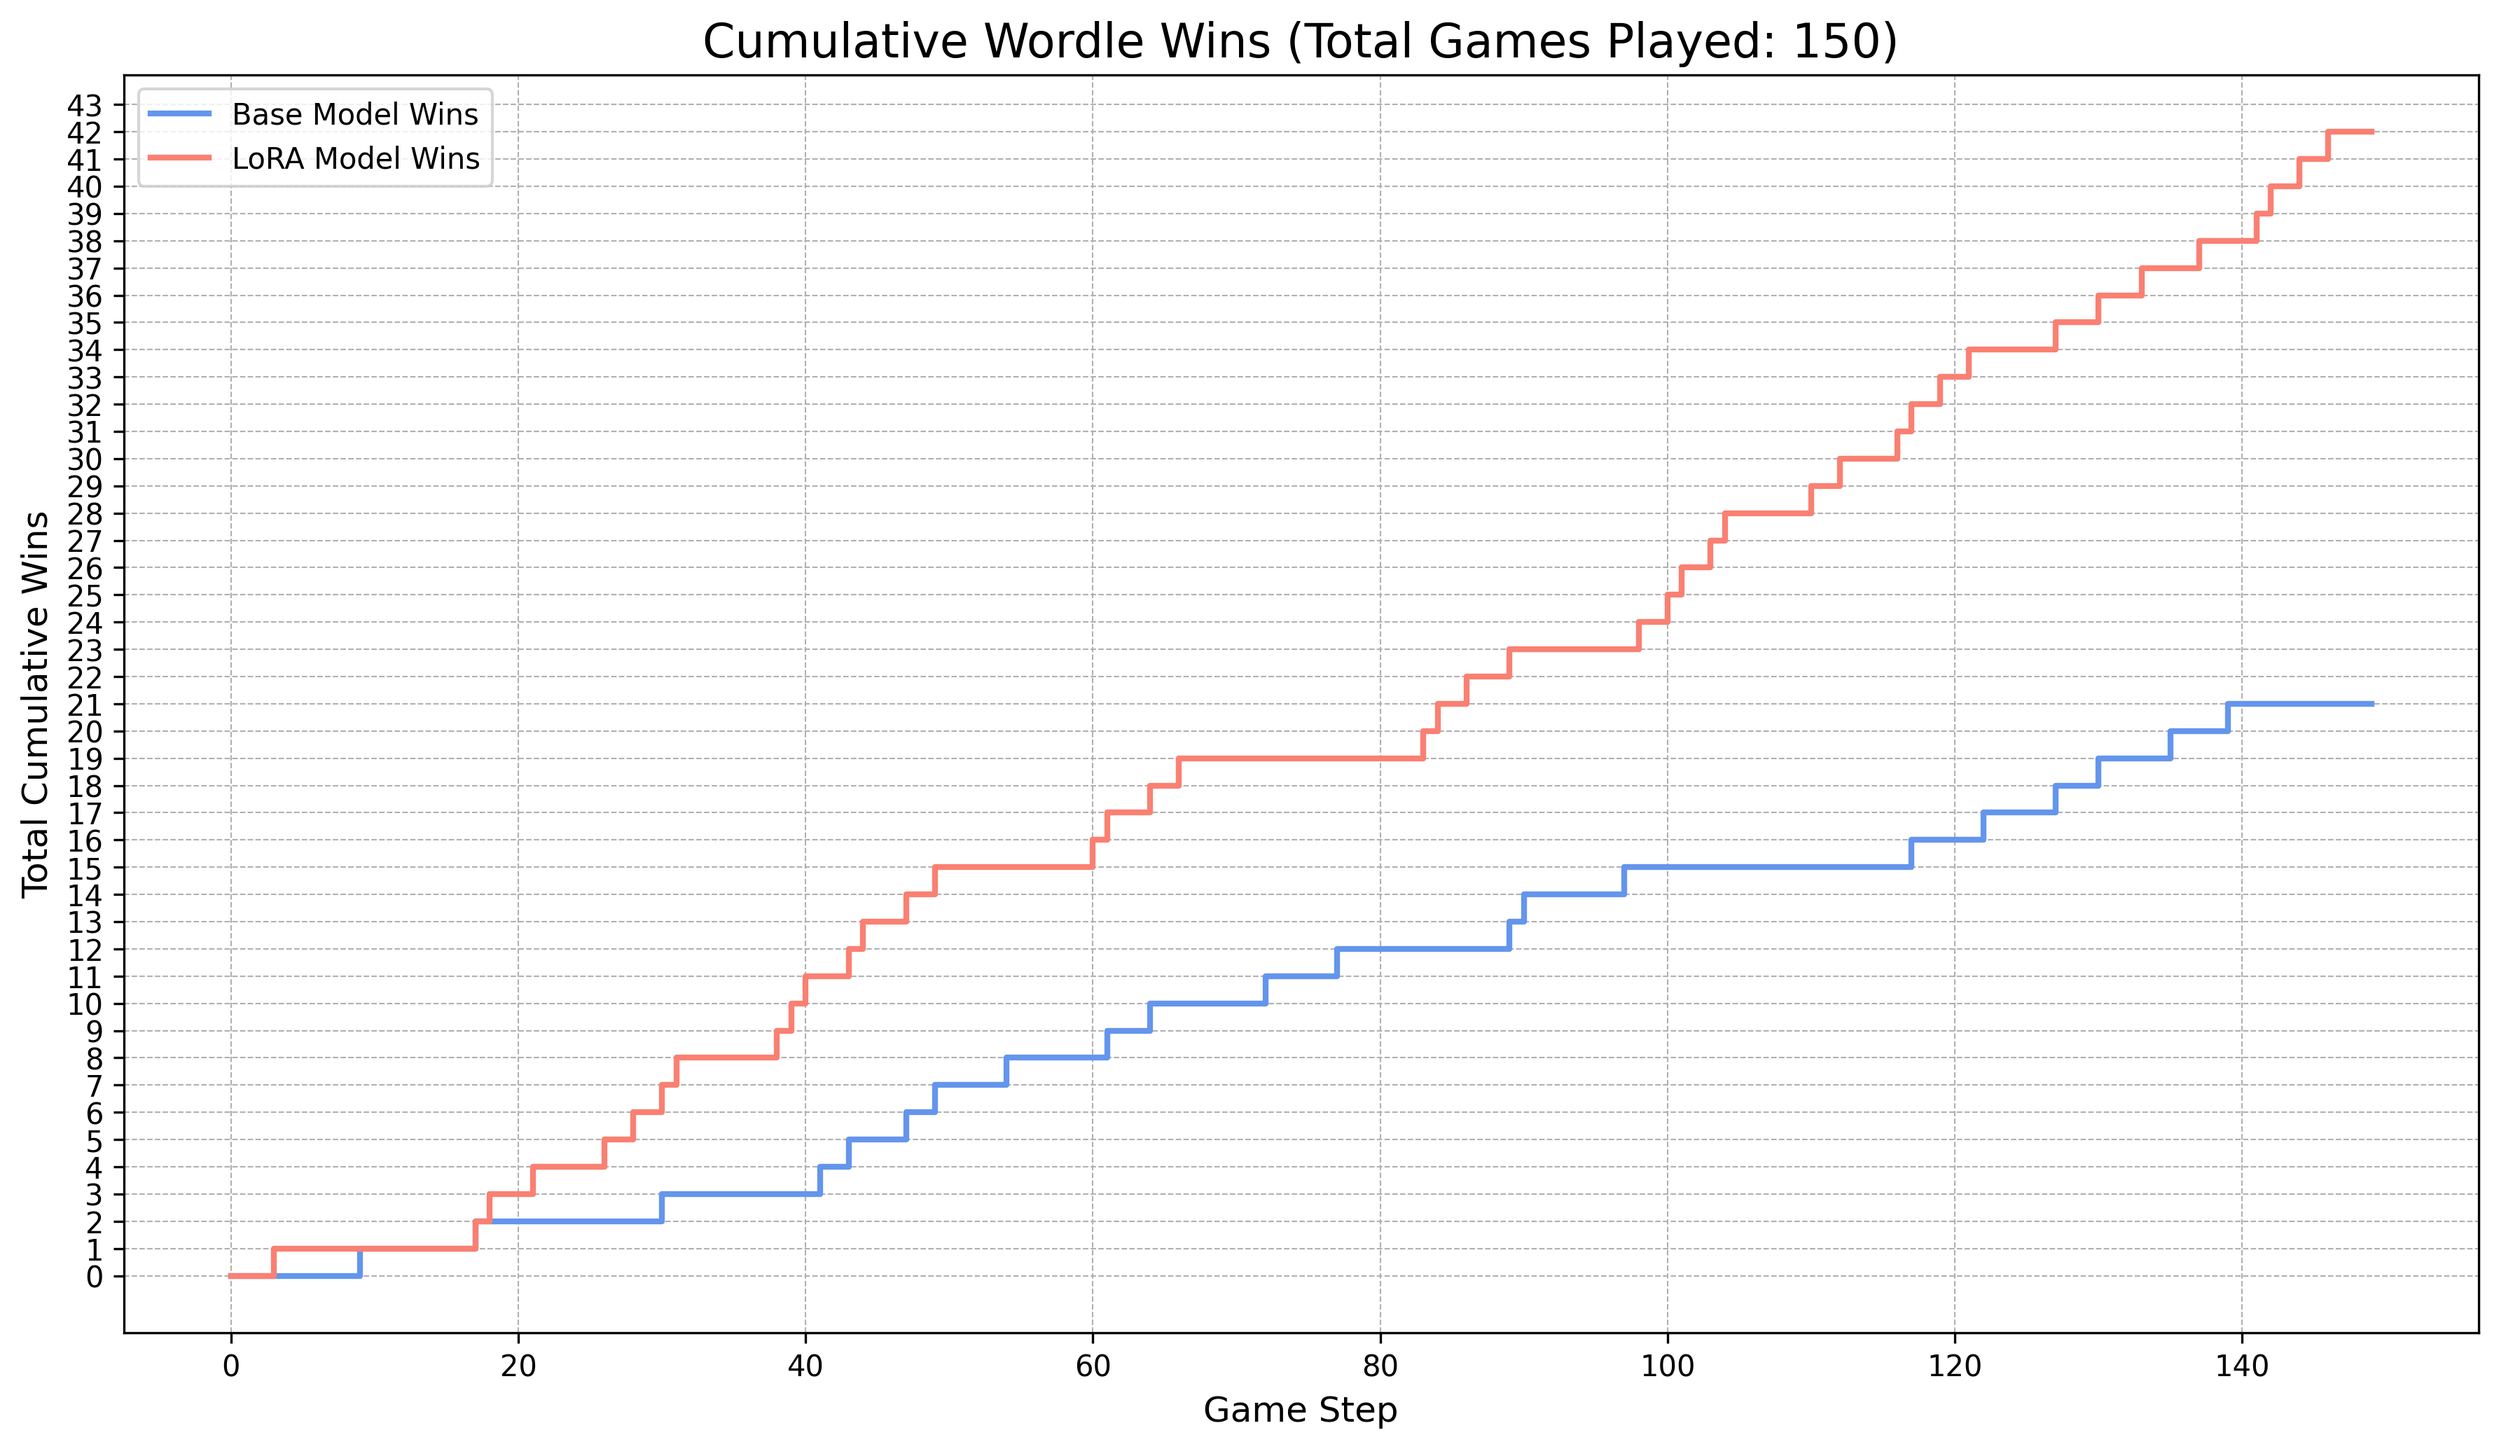
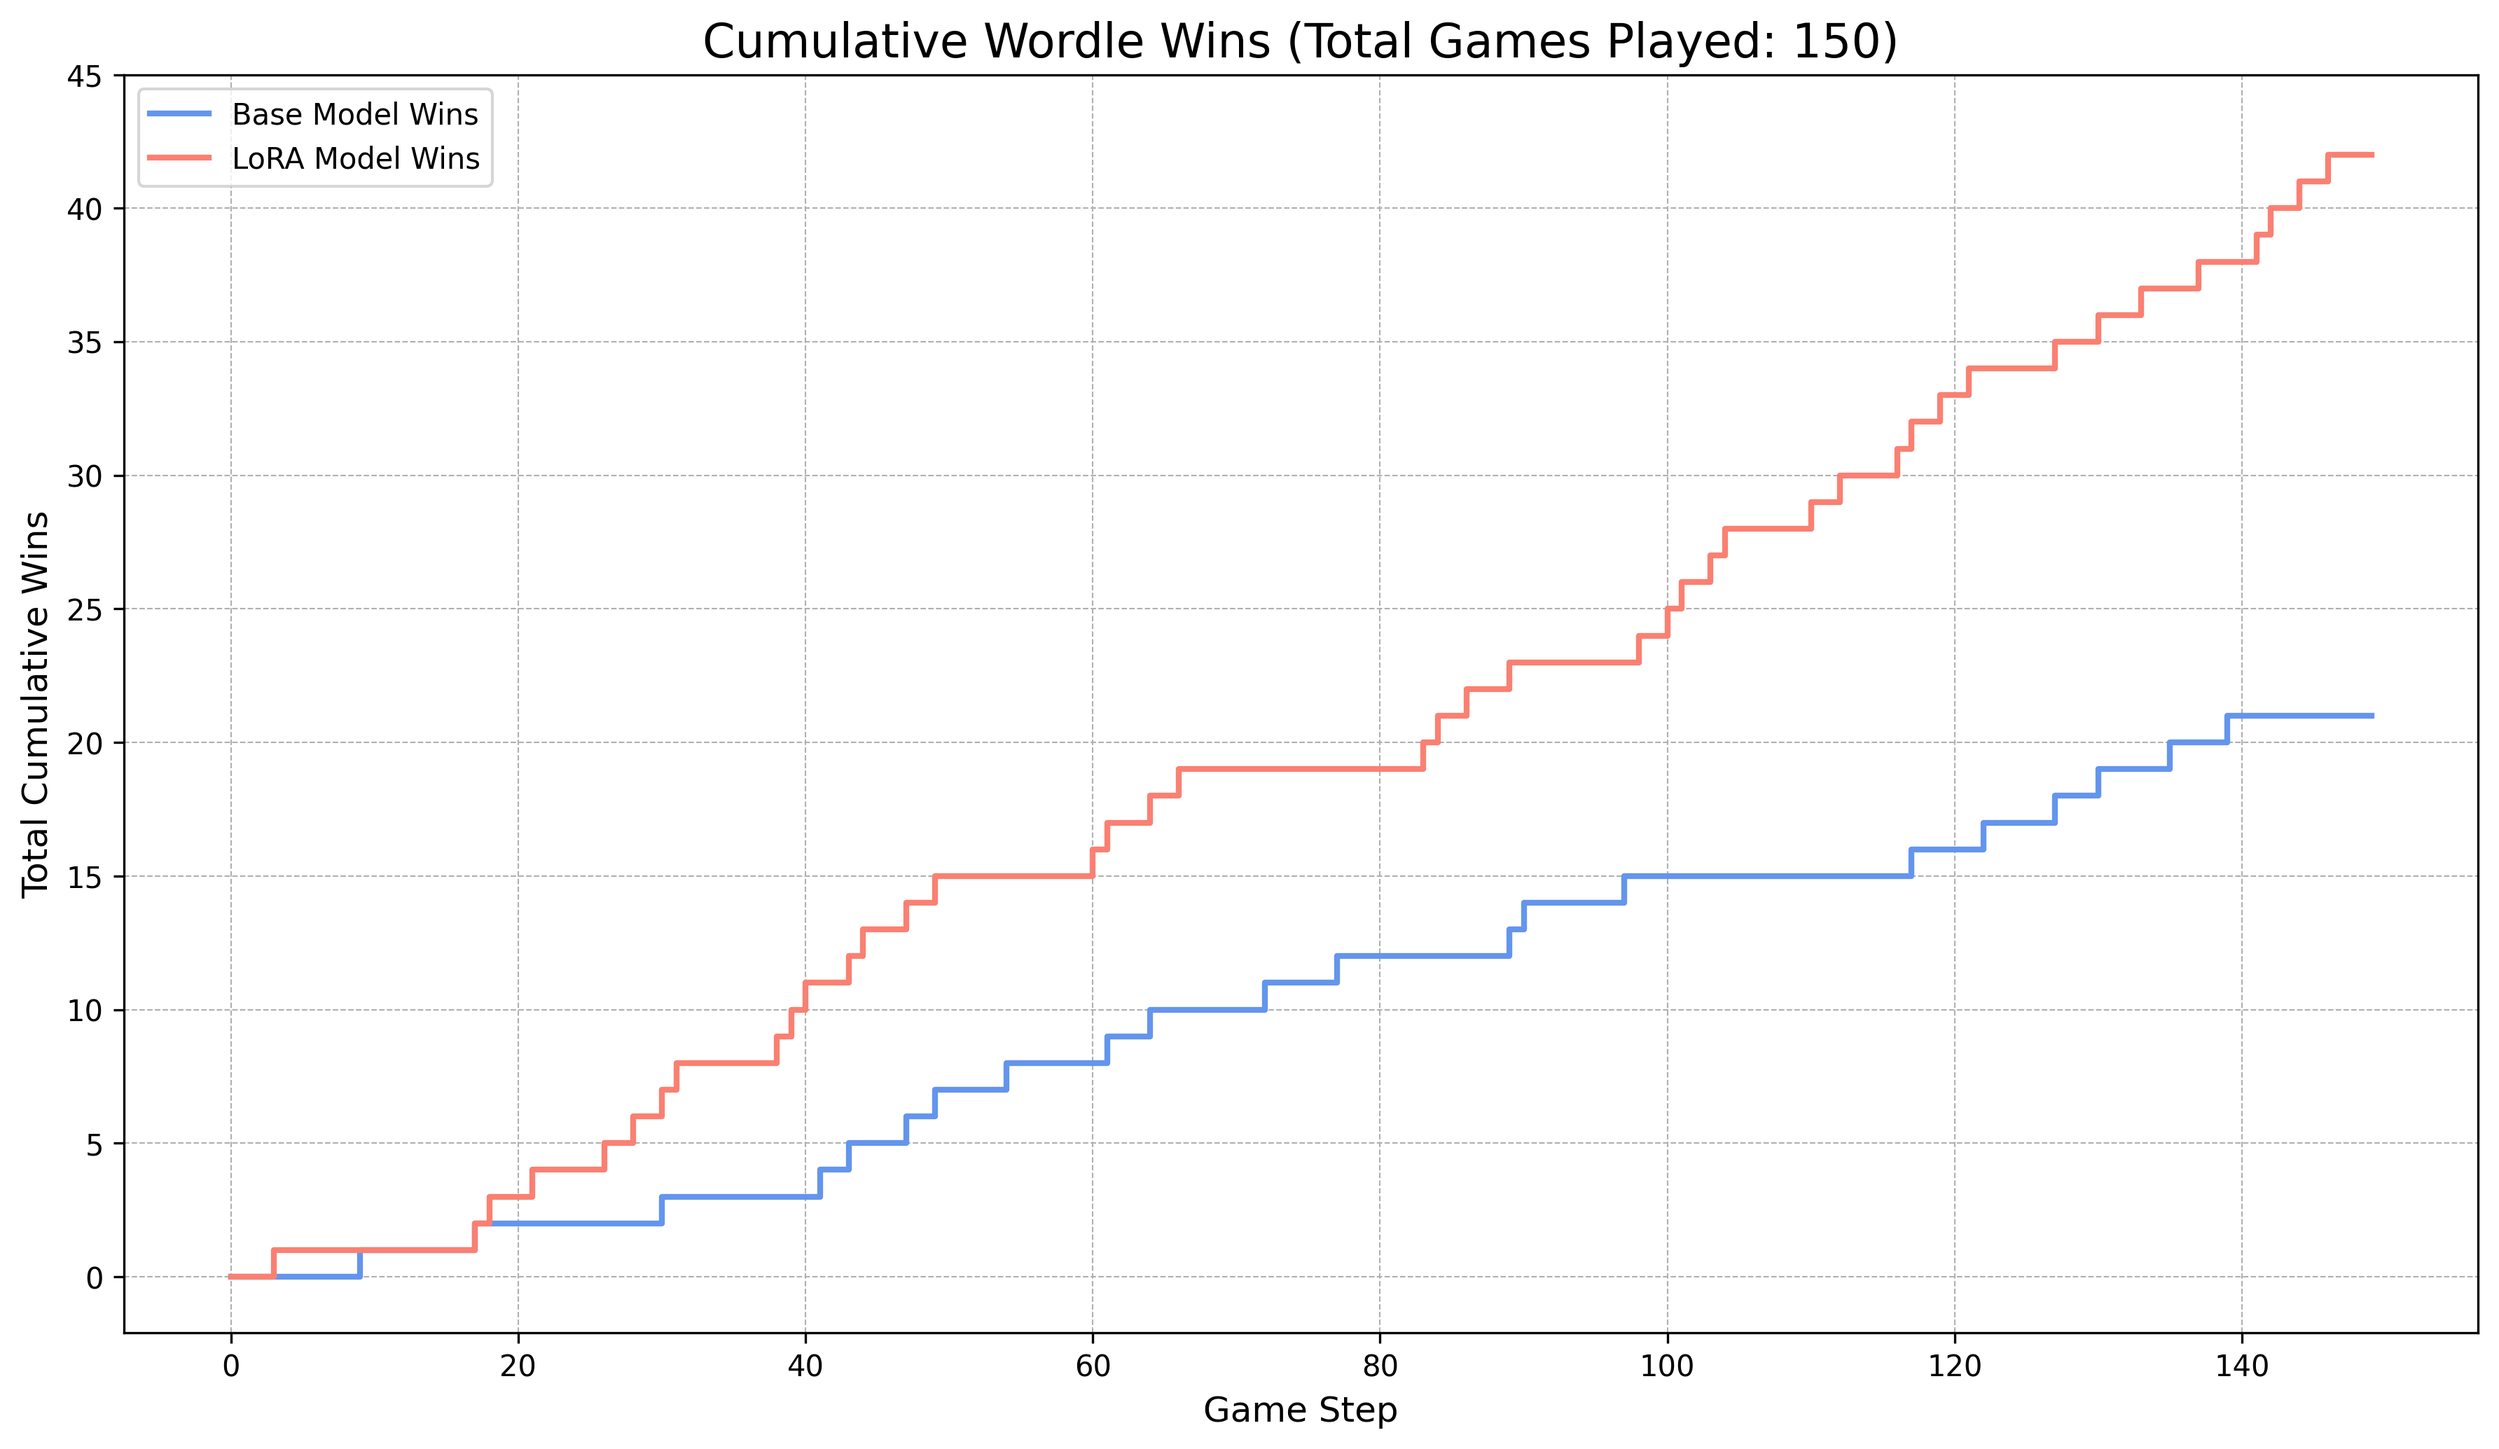
without history temp 0.9

diff --git a/scripts/plot_cumulative_wins.py b/scripts/plot_cumulative_wins.py
@@ -15,7 +15,21 @@ if __name__ == '__main__':
         required=True,
         help="Path to the training_metrics.jsonl file to be plotted."
     )
+    parser.add_argument(
+        "--eval",
+        type=bool,
+        required=False,
+        default=False,
+        help="If set to true runs side by side plots"
+    )
     args = parser.parse_args()
     metrics_file_path = Path(args.file)
-    plot_cumulative_wins(metrics_file_path)
-    plot_comparison_chart(metrics_file_path)  # Optional: If you want to plot comparison chart as well
+    is_eval = args.eval
+
+    if not is_eval:
+        plot_cumulative_wins(metrics_file_path)
+        plot_comparison_chart(metrics_file_path)  # Optional: If you want to plot comparison chart as well
+    else:
+        plot_cumulative_wins_sxs(metrics_file_path)
+        plot_win_distribution_sxs(metrics_file_path)
+        plt.show()

diff --git a/src/utils/logging.py b/src/utils/logging.py
@@ -352,7 +352,7 @@ def plot_cumulative_wins_sxs(metrics_file_path: str):
     plt.tight_layout()
     max_wins = max(base_win_count, lora_win_count)
     if max_wins > 0:
-        plt.yticks(range(0, max_wins + 2))
+        plt.yticks(range(0, max_wins + 5, 5))
 
     output_path = Path(metrics_file_path).parent / f"cumulative_wins_sxs_lora_base_{len(steps)}_games.png"
     plt.savefig(output_path, dpi=300, bbox_inches='tight')
